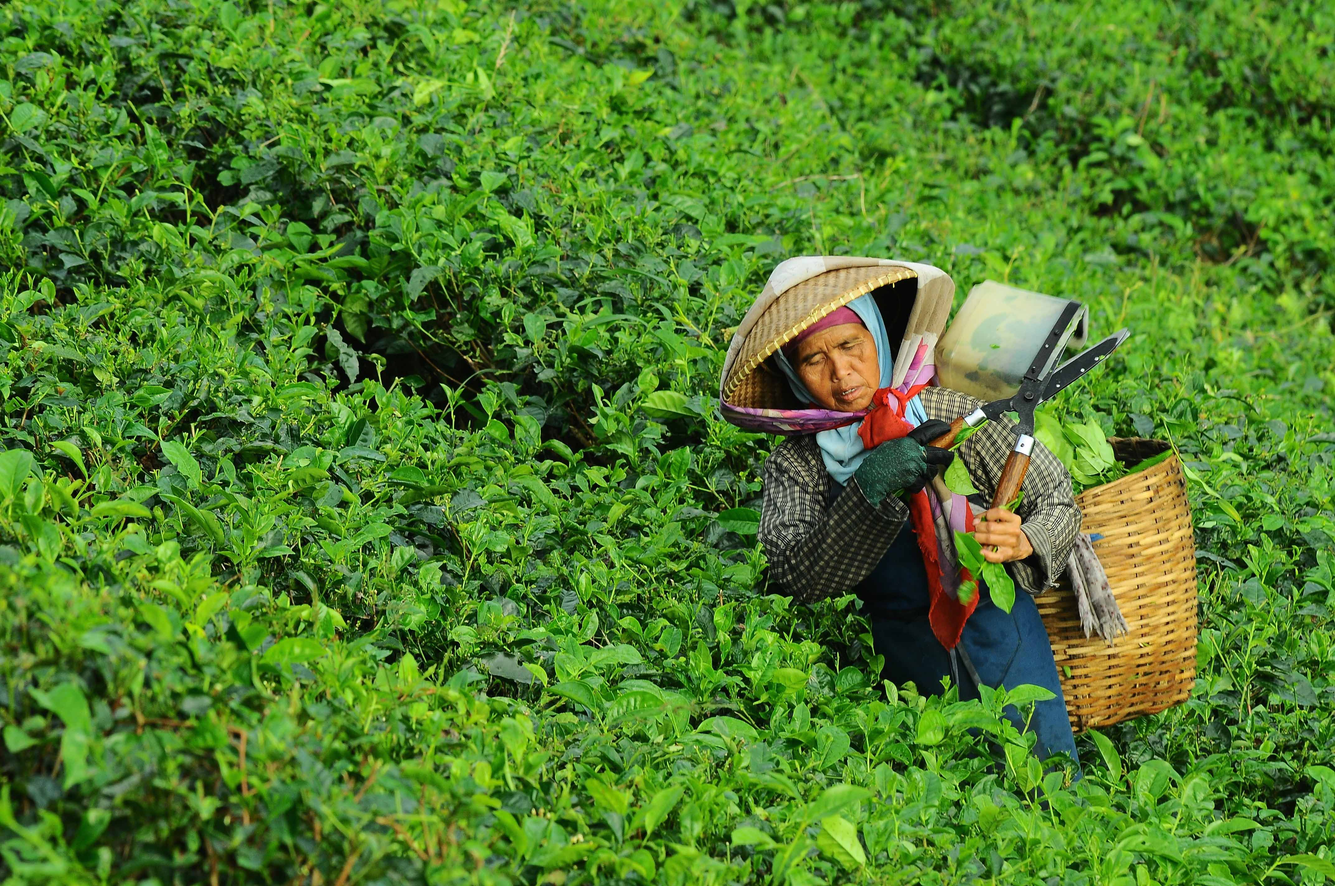
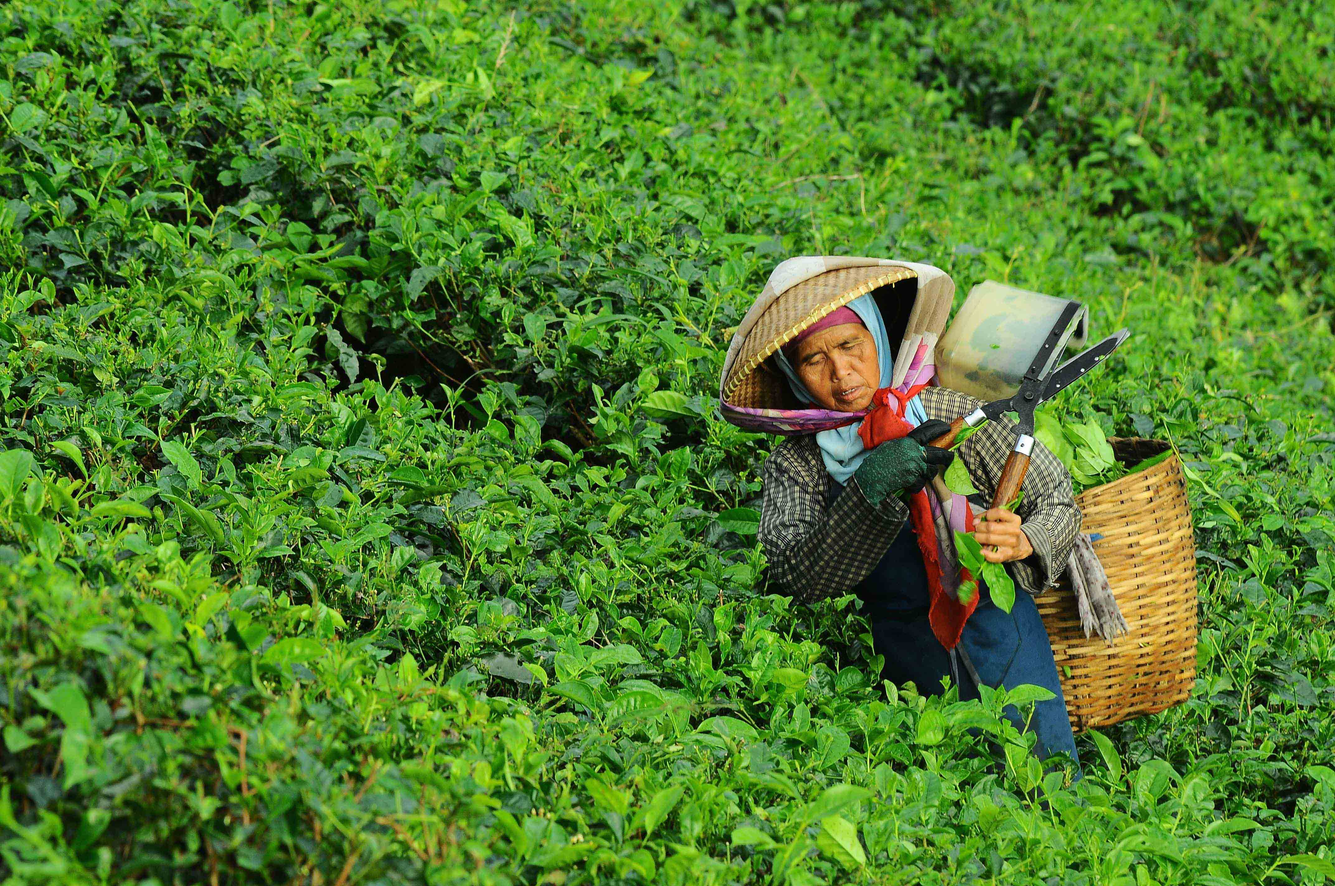
resized images, fix attempt for button font

diff --git a/src/Home.js b/src/Home.js
@@ -97,9 +97,9 @@ class Home extends Component {
                                         </p>
                                     </div>{/* .entry-content */}
     
-                                    <footer className="entry-footer d-flex flex-wrap align-items-center mt-5 fade-in" style={{ zIndex: 20 }}>
-                                        <Link to={'/contact'} href="#" className="btn gradient-bg mr-2 roundButton">Contact Us</Link>
-                                        <div onClick={ () => scrollToComponent(this.Mission, { offset: 0, align: 'middle', duration: 500 }) } className="btn orange-border text-white roundButton" style={{ cursor: 'pointer', zIndex: 20 }}>Our Mission</div>
+                                    <footer className="entry-footer d-flex flex-wrap align-items-center mt-5" style={{ zIndex: 20 }}>
+                                        <Link to={'/contact'} href="#" className="btn gradient-bg mr-2 roundButton fade-in-2">Contact Us</Link>
+                                        <div onClick={ () => scrollToComponent(this.Mission, { offset: 0, align: 'middle', duration: 500 }) } className="btn orange-border text-white roundButton fade-in-3" style={{ cursor: 'pointer', zIndex: 20 }}>Our Mission</div>
 
                                         {/* <a href="#" className="btn orange-border">Our Mission</a> */}
                                     </footer>{/* .entry-footer */}

diff --git a/src/css/index.scss b/src/css/index.scss
@@ -2719,6 +2719,8 @@ $line-height-medium: 1.7;
 }
 
 .roundButton{
+    font-size: 14px !important;
+    font-weight: 400 !important;
     padding: 10px 20px !important; 
     border-radius: 24px !important;
 }
@@ -2839,7 +2841,21 @@ $line-height-medium: 1.7;
     opacity: 1;
     animation:ease-in 1;
     animation-name: fade-in;
-    animation-duration: 2s;
+    animation-duration: 1.8s;
+}
+
+.fade-in-2 {
+    opacity: 1;
+    animation:ease-in 1;
+    animation-name: fade-in;
+    animation-duration: 2.8s;
+}
+
+.fade-in-3 {
+    opacity: 1;
+    animation:ease-in 1;
+    animation-name: fade-in;
+    animation-duration: 3.6s;
 }
 
 .fade-in-full {

diff --git a/src/BootstrapNav.js b/src/BootstrapNav.js
@@ -74,7 +74,8 @@ class BootstrapNav extends Component {
           expand='lg'
           className='nav-bar fixed-top customNav'
           style={{ 
-            borderBottom: '1px solid #E0E0E0', 
+            // borderBottom: '1px solid #E0E0E0', 
+            boxShadow: '0 2px 4px -1px rgba(0,0,0,0.2)',
             fontFamily: 'raleway, sans-serif', 
             fontSize: '12px',
             transition: 'top 300ms, opacity 200ms',
